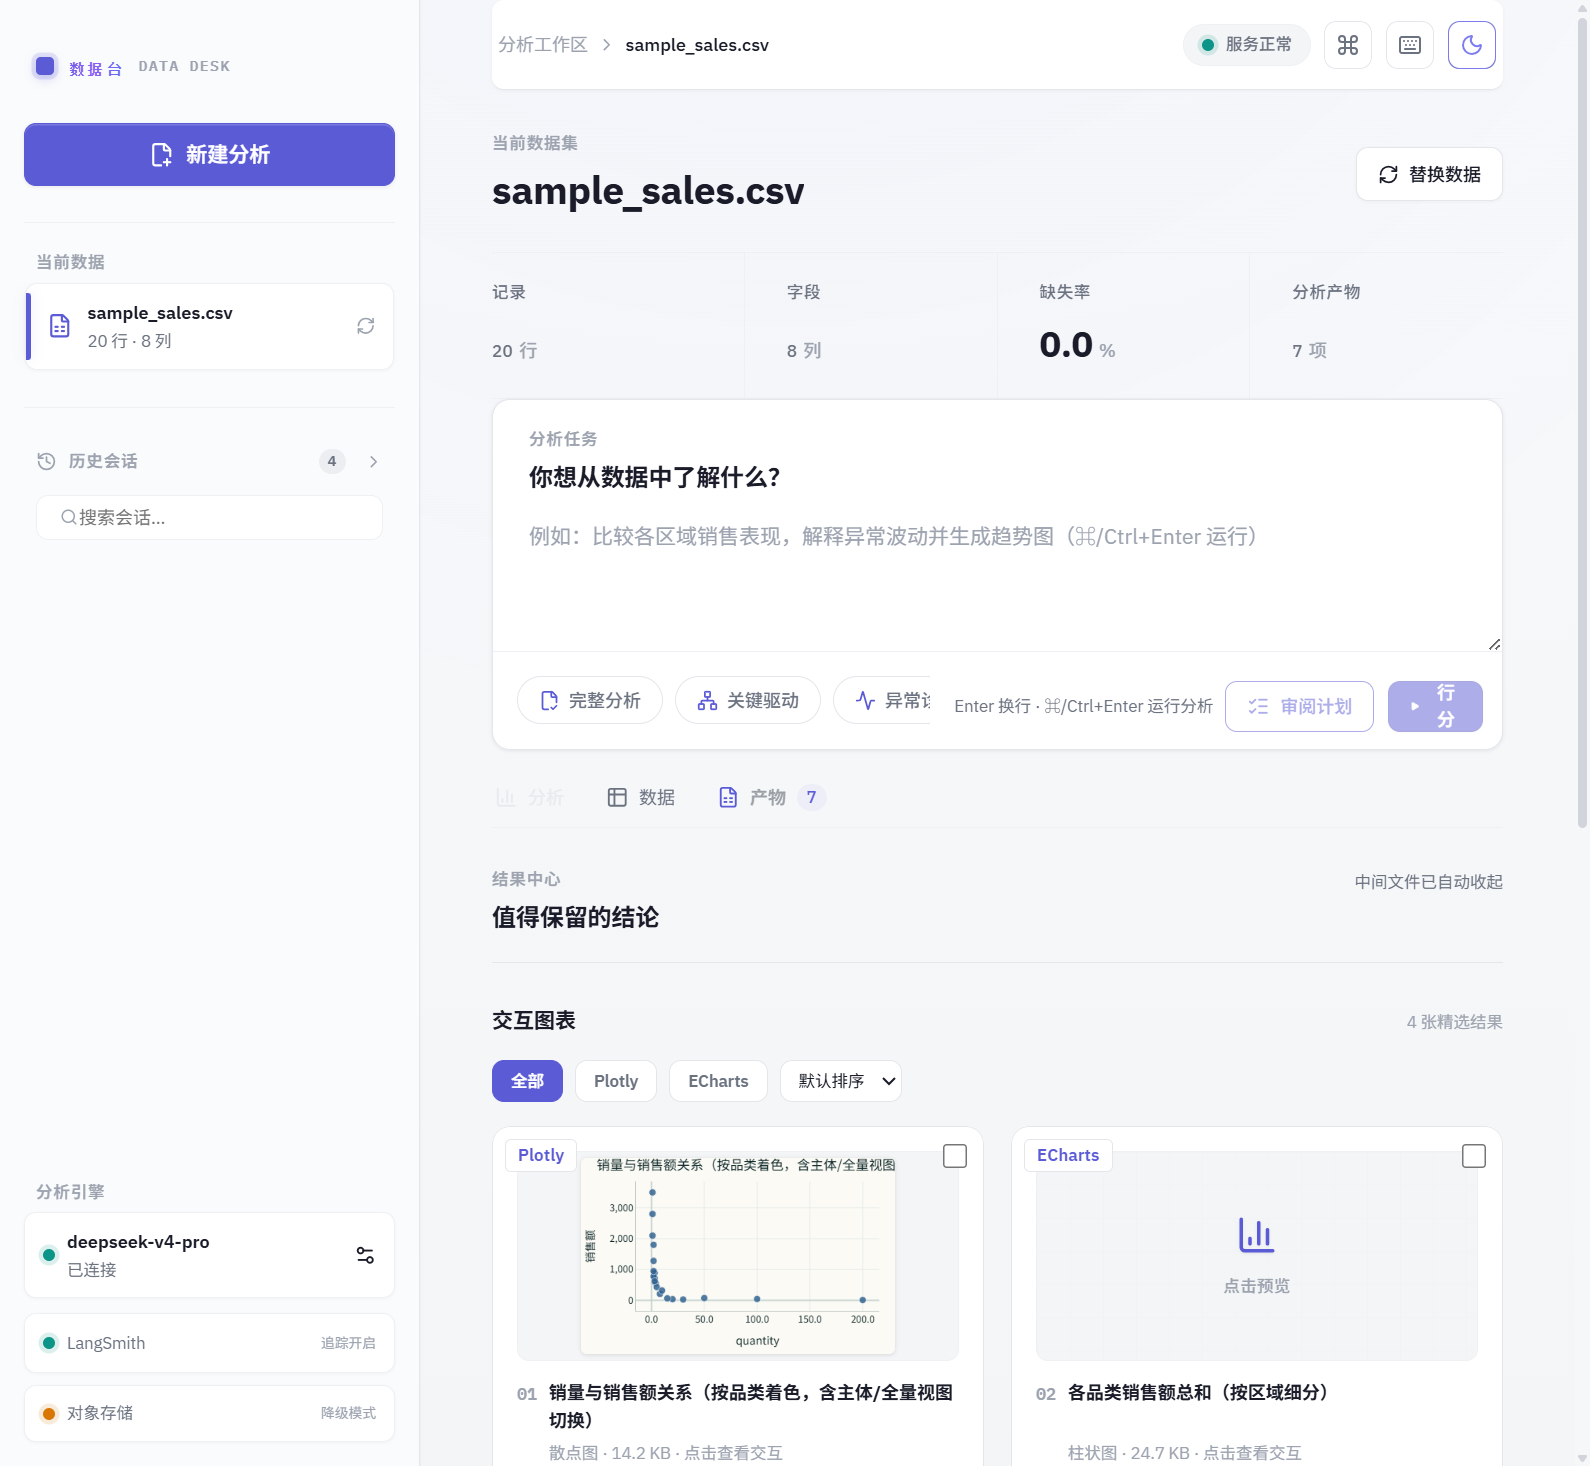
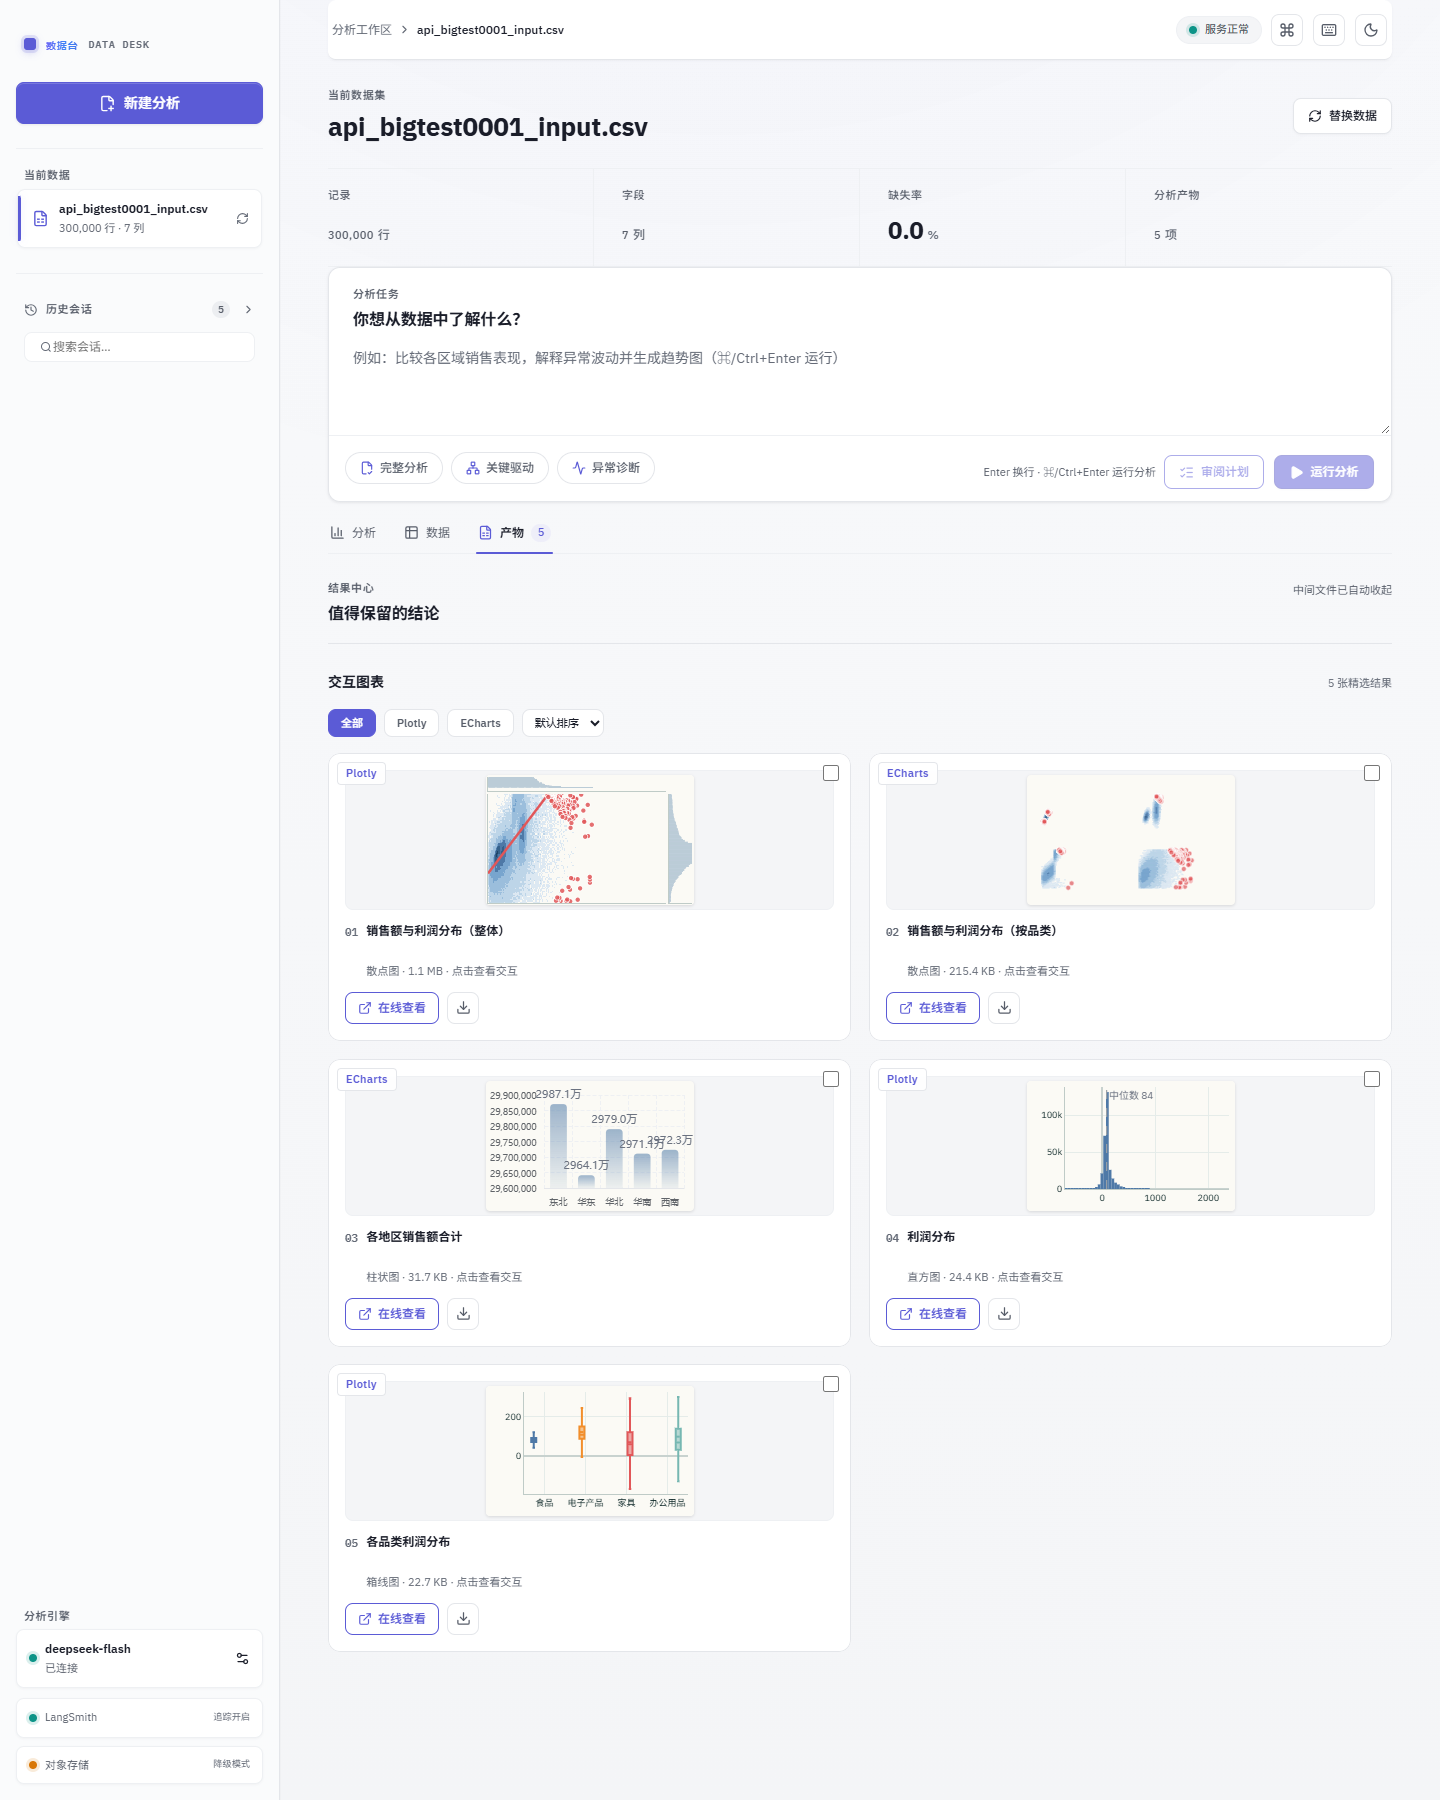
docs: 重拍 README 界面截图（含起始页），并把截图流程做成可复现脚本
README 里引用的 5 张截图还是 2026-08-21 拍的（早于本轮配色、密度视图与
起始页改版），内容已过期：

- 重拍 overview-light / overview-dark / artifacts-light / preview-light /
  data-preview，并新增 start-light（起始页 hero + 格式徽章 + 主 CTA）
- README「界面预览」改为 3×2 六格，把起始页放在第一格
- preview-light 现在展示的是 30 万行密度视图（边缘直方图 + 峰值标注 +
  细节图层按钮），artifacts-light 展示 5 种图表缩略图（含密度分面、箱线图）

新增 `scripts/capture_docs_screenshots.py`（开发期工具，不进测试套件）：
把"怎么重拍"固化成可复现步骤，并把两个坑写进注释——
① 缩略图懒加载且**离开视口会被 purge**，所以产物页截图不能用 full_page；
② 不能中途改视口（ECharts 迷你画布不跟着重绘，会截成空白），
   要用高视口新开一个页面。ENGINEERING-NOTES 同步记录了这两点与运行前提。

diff --git a/scripts/capture_docs_screenshots.py b/scripts/capture_docs_screenshots.py
@@ -1,0 +1,155 @@
+"""Capture the README screenshots (docs/screenshots/*.png) from the running app.
+
+Dev-time tool, not part of the test suite. Requirements:
+    pip install playwright && playwright install chromium
+and a running app at http://127.0.0.1:8000 with APP_ACCESS_TOKEN in .env plus the
+demo session (runs/api_bigtest0001, regenerated by the density demo script).
+
+Usage:  python scripts/capture_docs_screenshots.py [--session api_bigtest0001]
+"""
+
+from __future__ import annotations
+
+import argparse
+import re
+import sys
+from pathlib import Path
+
+from playwright.sync_api import sync_playwright
+
+REPO = Path(__file__).resolve().parents[1]
+OUT = REPO / "docs" / "screenshots"
+APP = "http://127.0.0.1:8000"
+
+# 视口与旧图一致（1590×1466 ≈ 1440 视口 + 全页高度），保证 README 排版不变
+VIEWPORT = {"width": 1440, "height": 1000}
+
+
+def read_token() -> str:
+    text = (REPO / ".env").read_text(encoding="utf-8", errors="ignore")
+    match = re.search(r"^APP_ACCESS_TOKEN\s*=\s*(.+)$", text, re.MULTILINE)
+    if not match:
+        raise SystemExit("在 .env 里找不到 APP_ACCESS_TOKEN")
+    return match.group(1).strip()
+
+
+def launch(playwright, **kwargs):
+    """优先用自带浏览器，缺失时退回本机已装的 Chromium。"""
+    import glob
+    import os
+
+    try:
+        return playwright.chromium.launch(**kwargs)
+    except Exception as first_error:  # noqa: BLE001
+        roots = [os.environ.get("PLAYWRIGHT_BROWSERS_PATH") or "",
+                 str(Path.home() / "AppData" / "Local" / "ms-playwright"),
+                 str(Path.home() / ".cache" / "ms-playwright")]
+        for root in roots:
+            if not root or not Path(root).is_dir():
+                continue
+            for pattern in ("chromium-*/chrome-win64/chrome.exe", "chromium-*/chrome-linux/chrome"):
+                for candidate in sorted(glob.glob(str(Path(root) / pattern)), reverse=True):
+                    try:
+                        return playwright.chromium.launch(executable_path=candidate, **kwargs)
+                    except Exception:  # noqa: BLE001
+                        continue
+        raise first_error
+
+
+def open_session(page, session: str) -> None:
+    page.keyboard.press("Control+k")
+    page.wait_for_timeout(400)
+    page.keyboard.type(session)
+    page.wait_for_timeout(1200)
+    page.keyboard.press("Enter")
+    page.wait_for_timeout(3500)
+
+
+def click_tab(page, name: str) -> None:
+    page.evaluate(
+        """(label) => { const t = Array.from(document.querySelectorAll('button,[role=tab],a'))
+                        .find(el => (el.textContent || '').includes(label));
+                       if (t) t.click(); }""",
+        name,
+    )
+    page.wait_for_timeout(2500)
+
+
+def main() -> int:
+    parser = argparse.ArgumentParser()
+    parser.add_argument("--session", default="api_bigtest0001")
+    args = parser.parse_args()
+
+    OUT.mkdir(parents=True, exist_ok=True)
+    token = read_token()
+    with sync_playwright() as p:
+        browser = launch(p)
+        page = browser.new_page(viewport=VIEWPORT)
+        page.goto(APP, wait_until="domcontentloaded")
+        page.evaluate("(t) => localStorage.setItem('data-desk-access-token', t)", token)
+        page.evaluate("() => localStorage.removeItem('data-desk-current-session')")
+        page.reload(wait_until="networkidle")
+        page.wait_for_timeout(2500)
+
+        # 1) 起始页（浅色）：hero + 格式徽章 + 主 CTA
+        page.screenshot(path=str(OUT / "start-light.png"))
+        print("wrote start-light.png")
+
+        # 2) 打开演示会话 → 分析页（浅色 / 暗色）
+        open_session(page, args.session)
+        click_tab(page, "分析")
+        page.screenshot(path=str(OUT / "overview-light.png"), full_page=True)
+        print("wrote overview-light.png")
+
+        # 3) 数据页表格
+        click_tab(page, "数据")
+        page.wait_for_timeout(1500)
+        page.screenshot(path=str(OUT / "data-preview.png"))
+        print("wrote data-preview.png")
+
+        # 4) 产物页（图表卡片 = 缩略图）
+        #    缩略图是懒加载的，且**离开视口会被 purge**（useInView 释放实例），
+        #    所以：① 不能用 full_page 截图（折叠线以下的卡片是空白）；
+        #    ② 也不能中途改视口（ECharts 迷你画布不会跟着重绘，实测变空白）。
+        #    做法是**一开始就用高视口打开一个新页面**，让 5 张卡片始终在场。
+        tall = browser.new_page(viewport={"width": VIEWPORT["width"], "height": 1800})
+        tall.goto(APP, wait_until="domcontentloaded")
+        tall.evaluate("(t) => localStorage.setItem('data-desk-access-token', t)", token)
+        tall.reload(wait_until="networkidle")
+        tall.wait_for_timeout(2000)
+        open_session(tall, args.session)
+        click_tab(tall, "产物")
+        tall.wait_for_timeout(5000)
+        tall.screenshot(path=str(OUT / "artifacts-light.png"))
+        print("wrote artifacts-light.png")
+        tall.close()
+
+        # 5) 图表预览（单面板密度图：边缘直方图 + 峰值标注 + 细节图层按钮）
+        page.evaluate(
+            """() => { const cards = Array.from(document.querySelectorAll('.chart-card'));
+                       const target = cards.find(c => (c.textContent || '').includes('整体')) || cards[0];
+                       const b = target && target.querySelector('.preview-button');
+                       if (b) b.click(); }"""
+        )
+        page.wait_for_timeout(7000)
+        page.screenshot(path=str(OUT / "preview-light.png"))
+        print("wrote preview-light.png")
+        page.keyboard.press("Escape")
+        page.wait_for_timeout(1000)
+
+        # 6) 暗色主题的同一页
+        page.evaluate(
+            """() => { const b = document.querySelector('button[title*="主题"], .theme-toggle, button[aria-label*="主题"]');
+                       if (b) b.click(); }"""
+        )
+        page.wait_for_timeout(1500)
+        click_tab(page, "分析")
+        page.screenshot(path=str(OUT / "overview-dark.png"), full_page=True)
+        print("wrote overview-dark.png")
+
+        browser.close()
+    return 0
+
+
+if __name__ == "__main__":
+    sys.exit(main())

diff --git a/ENGINEERING-NOTES.md b/ENGINEERING-NOTES.md
@@ -56,10 +56,13 @@
 
 **可访问性（对比度）**：全站文字按 WCAG AA 校准过，方法是用计算样式实测而不是凭感觉——
 
-- 审计脚本思路：遍历所有"直接含文字"的元素，用祖先背景合成出有效底色，按 4.5:1（小字）/3:1（大字）判定；浅色与暗色、起始页/工作台/产物/历史/命令面板/预览模态各跑一遍。
-- 三级文字令牌**按"最差背景"标定**，不是按页面底色：`--fg-subtle` 会在 `--control-hover`(浅) / `--canvas-subtle`(暗) 这类略深的面板底上用于 10~11px 小字，只按页面底算会差一点点（实测 4.2:1）。
+- **CI 门禁**：`frontend/src/styles/__tests__/contrast.test.ts` 解析 `tokens.css`，把"文字令牌 × 承载文字的底色"矩阵在两套主题下逐一算对比度并断言 ≥4.5:1（毫秒级、零依赖）。**新增承载文字的表面底色时要把它加进 `SURFACES`**，否则该表面不会被约束。
+- **浏览器实测（手工复核）**：起服务后用 Playwright 遍历所有"直接含文字"的元素、按祖先背景合成有效底色、逐条判 AA，覆盖 起始页/工作台(分析·数据·产物)/历史/命令面板/预览模态 × 浅暗两主题；另跑一轮"悬停态"审计——`--control-hover` 这类底色只在 hover 时出现，静息态审计根本看不见（暗色 `--fg-subtle` 压在它上面只有 4.17:1，就是这么发现的）。
+- 三级文字令牌**按"最差背景"标定**，不是按页面底色：暗色下 `--control-hover` / `--canvas-inset` / `--neutral-muted` 同为 #2a2b2f，是最暗的可承载文字底；取值要让它仍有 ≥4.5:1（现值给出 15.3 / 8.1 / 5.9 的三级间距）。
 - **实心 vs 文字必须分令牌**：`--accent-fg` 在暗色被提亮到 #7c7cf0 以保证"作为文字"的对比度，但同一值当**背景**时白字只有 3.5:1。所以白字压底的填充一律用 `--accent-solid`（浅/暗同值，白字 5.4:1）。
 - 浮层徽章（如右上角引擎角标）要按**它自己的底色**校验：暗色下 `rgba(28,36,51,.92)` 上的品牌色小字只有 4.44:1，压深底色才达标。
+
+**文档截图怎么重拍**：`python scripts/capture_docs_screenshots.py`（需 `pip install playwright && playwright install chromium`，以及本地已起服务、`.env` 里的 `APP_ACCESS_TOKEN`、演示会话 `api_bigtest0001`）。两个坑写在脚本注释里：① 缩略图懒加载且**离开视口会被 purge**，所以产物页截图不能用 `full_page`（折叠线以下的卡片会是空白）；② 也不能中途改视口——ECharts 迷你画布不会跟着重绘，会截成空白——要用高视口**新开一个页面**。
 
 **三处"分层抽样"是同一思路的三个变体，不是意外重复**：`tools/builder._stratified_sample`（小提琴，按组配额、无硬上限）、`echarts_engine._stratified_3d_sample`（3D 散点，配额 + 收敛到硬预算）、`density.sample_detail_points`（密度细节层，额外做视口过滤）。差异是刻意的（各自的预算/过滤语义不同），合并成一个函数反而要引入模式开关；新增第四处前先看看能不能复用其中任何一个。
 

diff --git a/README.md b/README.md
@@ -44,10 +44,12 @@ flowchart LR
 
 ## 界面预览
 
-| 深色主题 · 分析工作区 | 产物中心 · 图表与数据文件 |
+| 起始页 · 拖拽上传与示例数据 | 分析工作区 · 数据概览与任务 |
 | :---: | :---: |
+| <img src="docs/screenshots/start-light.png" alt="起始页" width="100%" /> | <img src="docs/screenshots/overview-light.png" alt="数据分析工作台主界面（浅色主题）" width="100%" /> |
+| 深色主题 · 全流程工作台 | 产物中心 · 图表缩略图与下载 |
 | <img src="docs/screenshots/overview-dark.png" alt="深色主题主界面" width="100%" /> | <img src="docs/screenshots/artifacts-light.png" alt="产物中心" width="100%" /> |
-| 图表预览 · 中文工具栏与横向图例 | 数据预览 · 类型识别与列对齐 |
+| 图表预览 · 密度视图与细节图层 | 数据预览 · 类型识别与列对齐 |
 | <img src="docs/screenshots/preview-light.png" alt="图表预览模态" width="100%" /> | <img src="docs/screenshots/data-preview.png" alt="数据预览表格" width="100%" /> |
 
 ## 功能特性
